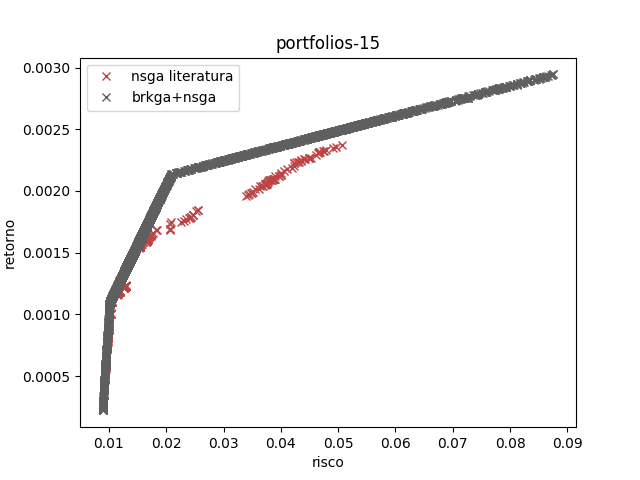
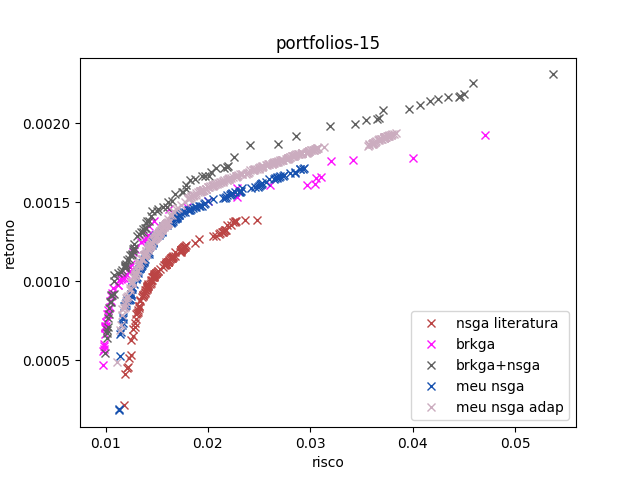
gráficos da fronteira

diff --git a/grafico.py b/grafico.py
@@ -7,40 +7,40 @@ ax.set_title(titulo)
 ax.set_xlabel('risco')
 ax.set_ylabel('retorno')
 
-with open('res-nsga-literatura-3') as arq:
+with open('res-nsga-literatura-15') as arq:
 	linhas = arq.readlines()
 	x = [float(linha.split()[0]) for linha in linhas]
 	y = [float(linha.split()[1]) for linha in linhas]
 
 ax.plot(x, y, 'x', c = '#bb4444', label = 'nsga literatura')
 
-# with open('res-brkga-3') as arq:
-# 	linhas = arq.readlines()
-# 	x = [float(linha.split()[0]) for linha in linhas]
-# 	y = [float(linha.split()[1]) for linha in linhas]
+with open('res-brkga-15') as arq:
+	linhas = arq.readlines()
+	x = [float(linha.split()[0]) for linha in linhas]
+	y = [float(linha.split()[1]) for linha in linhas]
 
-# ax.plot(x, y, 'x', c = '#fe12fe', label = 'brkga')
+ax.plot(x, y, 'x', c = '#fe12fe', label = 'brkga')
 
-with open('res-brkga-nsga-3') as arq:
+with open('res-brkga-nsga-15') as arq:
 	linhas = arq.readlines()
 	x = [float(linha.split()[0]) for linha in linhas]
 	y = [float(linha.split()[1]) for linha in linhas]
 
 ax.plot(x, y, 'x', c = '#5f5f5f', label = 'brkga+nsga')
 
-# with open('res-meu-nsga-15') as arq:
-# 	linhas = arq.readlines()
-# 	x = [float(linha.split()[0]) for linha in linhas]
-# 	y = [float(linha.split()[1]) for linha in linhas]
+with open('res-meu-nsga-15') as arq:
+	linhas = arq.readlines()
+	x = [float(linha.split()[0]) for linha in linhas]
+	y = [float(linha.split()[1]) for linha in linhas]
 
-# ax.plot(x, y, 'x', c = '#1651af', label = 'meu nsga')
+ax.plot(x, y, 'x', c = '#1651af', label = 'meu nsga')
 
-# with open('res-meu-nsga-adap-15') as arq:
-# 	linhas = arq.readlines()
-# 	x = [float(linha.split()[0]) for linha in linhas]
-# 	y = [float(linha.split()[1]) for linha in linhas]
+with open('res-meu-nsga-adap-15') as arq:
+	linhas = arq.readlines()
+	x = [float(linha.split()[0]) for linha in linhas]
+	y = [float(linha.split()[1]) for linha in linhas]
 
-# ax.plot(x, y, 'x', c = '#cbacbf', label = 'meu nsga adap')
+ax.plot(x, y, 'x', c = '#cbacbf', label = 'meu nsga adap')
 
 leg = ax.legend()
 
